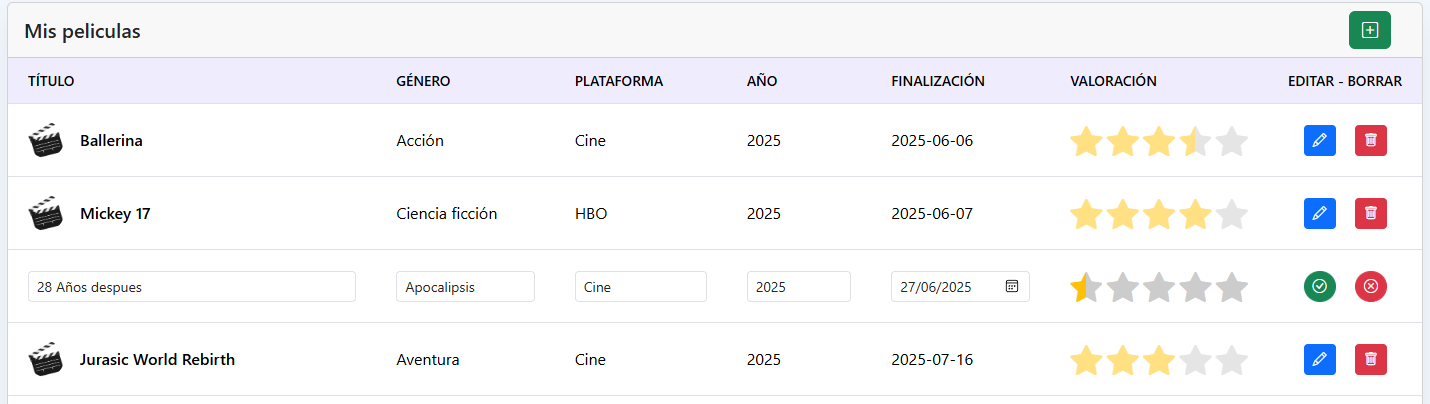
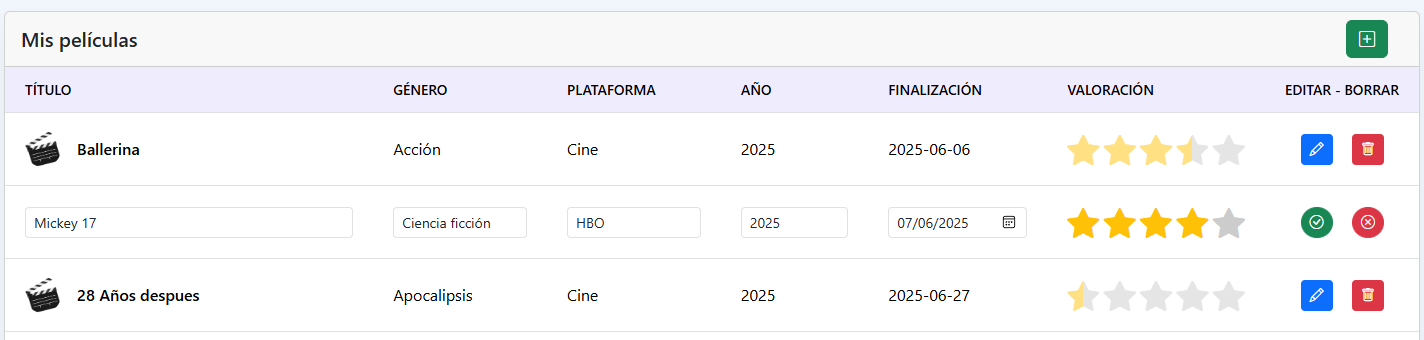
V 1.4 (readme)

diff --git a/src/main/resources/templates/indexPeliculas.html b/src/main/resources/templates/indexPeliculas.html
@@ -17,7 +17,7 @@
                 <div class="col-lg-8 col-xl-6">
                     <h3 class="h1 bg-primary-after after-50px pb-3 mb-3 mt-5">
                         <img src="https://png.pngtree.com/element_pic/16/11/18/4f829e85866bd52d062ca58b4e1ecef5.png" class="avatar sm rounded-pill flex-shrink-0" alt="pelicula">
-                        Tracker de peliculas
+                        Tracker de películas
                         <img src="https://png.pngtree.com/element_pic/16/11/18/4f829e85866bd52d062ca58b4e1ecef5.png" class="avatar sm rounded-pill flex-shrink-0" alt="pelicula">
                     </h3>
                 </div>
@@ -39,7 +39,7 @@
                     </div>
                     <div class="overflow-hidden card table-nowrap table-card">
                         <div class="card-header d-flex justify-content-between align-items-center">
-                            <h5 class="mb-0">Mis peliculas</h5>
+                            <h5 class="mb-0">Mis películas</h5>
                             <button class="btn btn-success btnRegistro" onclick="activarRegistro()"><i class="bi bi-plus-square"></i></button>
                         </div>
                         <div class="table-responsive">

diff --git a/src/main/resources/templates/index.html b/src/main/resources/templates/index.html
@@ -36,7 +36,7 @@
                         <div class="hover-top-in text-center">
                             <div class="overflow-hidden z-index-1 position-relative px-5 hover-top--in"><img class="rounded-circle border border-5 border-white shadow" src="https://img.freepik.com/premium-vector/movie-time_579077-259.jpg?semt=ais_hybrid&w=740" title="" alt=""></div>
                             <div class="mx-2 mx-xl-3 shadow rounded-3 position-relative mt-n4 bg-white p-4 pt-6 mx-4 text-center hover-top--in">
-                                <h6 class="fw-700 dark-color mb-1">Peliculas</h6><small>Gestor de peliculas</small>
+                                <h6 class="fw-700 dark-color mb-1">Películas</h6><small>Gestor de películas</small>
                             </div>
                         </div>
                     </a>

diff --git a/readme.md b/readme.md
@@ -1,4 +1,4 @@
-## Media Tracker App - Seguimiento de Libros, Series, Películas y Videojuegos (Proyecto en desarrollo)
+## Media Tracker fullstack App - Seguimiento de Libros, Series, Películas y Videojuegos 
 
 Gestor personal donde podrás registrar, listar y filtrar el contenido multimedia que consumas (libros, películas, series y videojuegos).
 
@@ -19,9 +19,9 @@ Frontend:
 
 ## Funcionalidades (V 1.0)
 
-📚 Módulo Libros (V 0.1)
-🎮 Módulo Videojuegos (V 0.3)
-🎬 Módulo Películas (V 1.0)
+📚 Módulo Libros (V 0.1) \
+🎮 Módulo Videojuegos (V 0.3) \
+🎬 Módulo Películas (V 1.0) \
 📺 Módulo Series (V1.0)
 
 CRUD completo:
@@ -45,15 +45,15 @@ Filtros disponibles:
 
 ![Menu principal](img/index.png)
 
-- Modulo de peliculas
+- Módulo de películas 
 
 ![modulo peliculas](img/mPeliculas.png)
 
-- Boton de agregar (+)
+- Botón de agregar (+) - Despliega una nueva fila al principio de la tabla para agregar, los botones cambian por confirmar y cancelar.
 
 ![btn agregar](img/agregar.png)
 
-- Botón de editar (lapiz)
+- Botón de editar (lapiz) - Activa el modo edición en la misma fila, los botones cambian por confirmar y cancelar.
 
 ![btn editar](img/editar.png)
 
